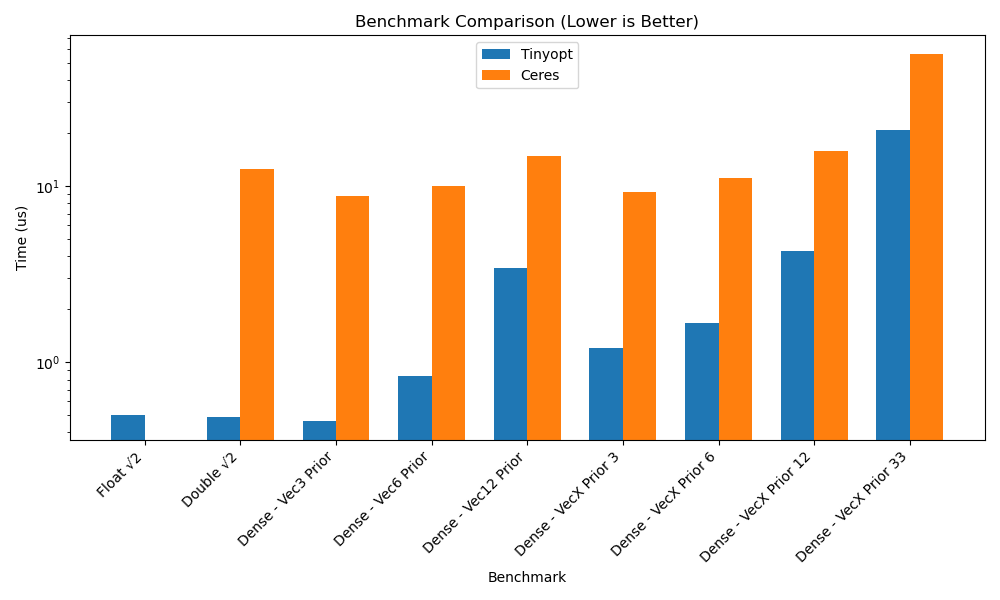
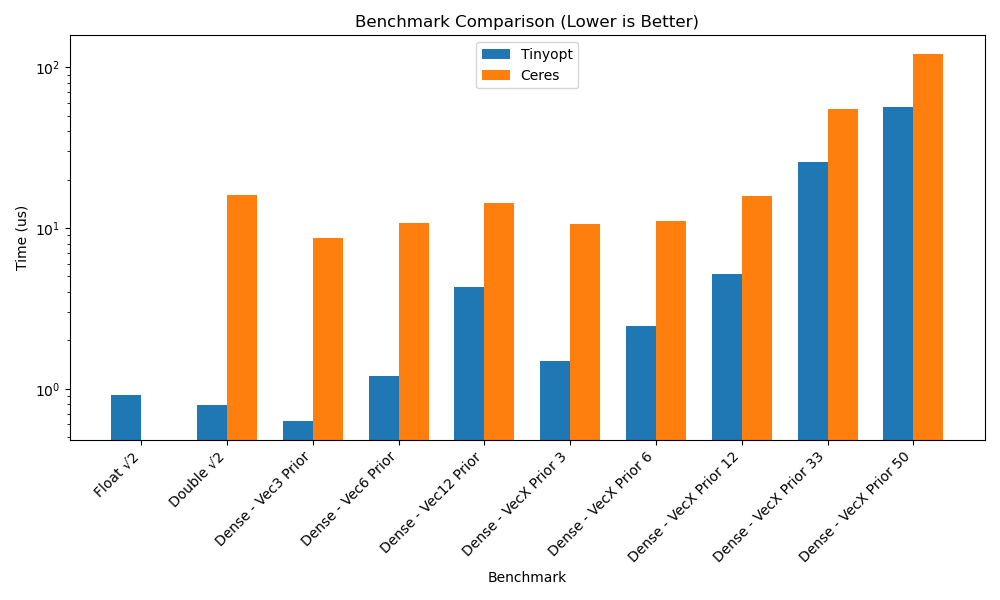
Tune Tinyopt benchmark to mach Ceres
I'm matching the mean convergence rate and number of iterations.
Only VecX seems to do 1 iteration less on average, not sure why.

diff --git a/benchmarks/ceres.cpp b/benchmarks/ceres.cpp
@@ -14,6 +14,7 @@
 
 #include <ceres/types.h>
 #include <cmath>
+#include "tinyopt/log.h"
 
 #if CATCH2_VERSION == 2
 #include <catch2/catch.hpp>
@@ -29,6 +30,7 @@
 
 #include <ceres/ceres.h>
 #include <tinyopt/losses/mahalanobis.h>
+#include "utils.h"
 
 using namespace tinyopt;
 using namespace tinyopt::losses;
@@ -61,15 +63,16 @@ inline auto CreateOptions(bool enable_log = false) {
   options.dense_linear_algebra_library_type = ceres::DenseLinearAlgebraLibraryType::EIGEN;
   // options.sparse_linear_algebra_library_type =
   // ceres::SparseLinearAlgebraLibraryType::EIGEN_SPARSE;
+  options.max_num_consecutive_invalid_steps = 2; // HACK
   return options;
 }
 
 TEST_CASE("Double", "[benchmark][fixed][scalar]") {
   const auto options = CreateOptions();
+  static tinyopt::benchmark::StatCounter<double> counter;
 
   BENCHMARK("√2") {
-    double x = Eigen::Vector<double, 1>::Random()[0];
-    if (log_report) std::cout << "x:" << x << "\n";
+    double x = Eigen::Vector<double, 1>::Random()[0]; // 0.480009157900 fails to converge
     ceres::Problem problem;
     problem.AddParameterBlock(&x, 1);  // Optimize the single variable 'x'
     problem.AddResidualBlock(
@@ -80,6 +83,8 @@ TEST_CASE("Double", "[benchmark][fixed][scalar]") {
     ceres::Solver::Summary summary;  // Summary of the optimization.
     ceres::Solve(options, &problem, &summary);                  // Solve the problem!
     if (log_report) std::cout << summary.FullReport() << "\n";  // Detailed report.
+    counter.AddConv(summary.termination_type == ceres::TerminationType::CONVERGENCE);
+    counter.AddFinalIters(summary.iterations.size());
   };
 }
 
@@ -190,6 +195,7 @@ TEMPLATE_TEST_CASE("Dense", "[benchmark][fixed][dense][double]", Vec3, Vec6, Vec
   const int dims = y.size();
 
   const auto options = CreateOptions();
+  static tinyopt::benchmark::StatCounter<TestType> counter;
 
   BENCHMARK("Prior [AD]") {
     TestType x = TestType::Random();
@@ -217,17 +223,20 @@ TEMPLATE_TEST_CASE("Dense", "[benchmark][fixed][dense][double]", Vec3, Vec6, Vec
     ceres::Solver::Summary summary;      // Summary of the optimization.
     ceres::Solve(options, &problem, &summary);                  // Solve the problem!
     if (log_report) std::cout << summary.FullReport() << "\n";  // Detailed report.
+    counter.AddConv(summary.termination_type == ceres::TerminationType::CONVERGENCE);
+    counter.AddFinalIters(summary.iterations.size());
   };
 }
 
 TEMPLATE_TEST_CASE("Dense", "[benchmark][dync][dense][double]", VecX) {
-  auto dims = GENERATE(3, 6, 12, 33);
+  auto dims = GENERATE(3, 6, 12, 33, 50);
   CAPTURE(dims);
 
   const TestType y = TestType::Random(dims);
   const TestType stdevs = TestType::Random(dims);
 
   const auto options = CreateOptions();
+  static tinyopt::benchmark::StatCounter<TestType> counter;
 
   BENCHMARK("Prior " + std::to_string(dims) + " [AD]") {
     TestType x = TestType::Random(dims);
@@ -260,6 +269,8 @@ TEMPLATE_TEST_CASE("Dense", "[benchmark][dync][dense][double]", VecX) {
     ceres::Solver::Summary summary;      // Summary of the optimization.
     ceres::Solve(options, &problem, &summary);                  // Solve the problem!
     if (log_report) std::cout << summary.FullReport() << "\n";  // Detailed report.
+    counter.AddConv(summary.termination_type == ceres::TerminationType::CONVERGENCE);
+    counter.AddFinalIters(summary.iterations.size());
   };
 }
 

diff --git a/benchmarks/dense.cpp b/benchmarks/dense.cpp
@@ -13,6 +13,7 @@
 // limitations under the License.
 
 #include <cmath>
+#include "tinyopt/log.h"
 
 #if CATCH2_VERSION == 2
 #include <catch2/catch.hpp>
@@ -26,6 +27,7 @@
 
 #include <tinyopt/tinyopt.h>
 #include "options.h"
+#include "utils.h"
 
 using namespace tinyopt;
 using namespace tinyopt::benchmark;
@@ -42,7 +44,7 @@ TEST_CASE("Float", "[benchmark][fixed][scalar]") {
   BENCHMARK("√2") {
     float x = Vec1::Random()[0];
     if (enable_log) TINYOPT_LOG("x:{:.12e}", x);
-    return Optimize(x, loss, options);
+    Optimize(x, loss, options);
   };
 }
 
@@ -50,9 +52,12 @@ TEST_CASE("Double", "[benchmark][fixed][scalar]") {
   auto loss = [](const auto &x) { return x * x - 2.0; };
   Options options = CreateOptions(enable_log);
   options.solver.use_ldlt = false;
+  static StatCounter<double> counter;
   BENCHMARK("√2") {
-    double x = Vec1::Random()[0];
-    return Optimize(x, loss, options);
+    double x = Vec1::Random()[0];  // 0.480009157900 fails to converge
+    const auto &out = Optimize(x, loss, options);
+    counter.AddConv(out.Converged());
+    counter.AddFinalIters(out.num_iters);
   };
 }
 
@@ -72,19 +77,22 @@ TEMPLATE_TEST_CASE("Dense", "[benchmark][fixed][dense][double]", Vec3, Vec6, Vec
   };
 
   const Options options = CreateOptions(enable_log);
+  static StatCounter<TestType> counter;
 
   BENCHMARK("Prior [AD]") {
     TestType x = TestType::Random();
-    return Optimize(x, loss, options);
+    Optimize(x, loss, options);
   };
   BENCHMARK("Prior") {
     TestType x = TestType::Random();
-    return Optimize(x, loss2, options);
+    const auto &out = Optimize(x, loss2, options);
+    counter.AddConv(out.Converged());
+    counter.AddFinalIters(out.num_iters);
   };
 }
 
 TEMPLATE_TEST_CASE("Dense", "[benchmark][dyn][dense][double]", VecX) {
-  auto dims = GENERATE(3, 6, 12, 33);
+  auto dims = GENERATE(3, 6, 12, 33, 50);
   CAPTURE(dims);
 
   const TestType y = TestType::Random(dims);
@@ -102,13 +110,16 @@ TEMPLATE_TEST_CASE("Dense", "[benchmark][dyn][dense][double]", VecX) {
   };
 
   const Options options = CreateOptions(enable_log);
+  static StatCounter<TestType> counter;
 
   BENCHMARK("Prior " + std::to_string(dims) + " [AD]") {
     TestType x = TestType::Random(dims);
-    return Optimize(x, loss, options);
+    Optimize(x, loss, options);
   };
   BENCHMARK("Prior " + std::to_string(dims)) {
     TestType x = TestType::Random(dims);
-    return Optimize(x, loss2, options);
+    const auto &out = Optimize(x, loss2, options);
+    counter.AddConv(out.Converged());
+    counter.AddFinalIters(out.num_iters);
   };
 }

diff --git a/benchmarks/utils.h b/benchmarks/utils.h
@@ -1,0 +1,57 @@
+// Copyright (C) 2025 Julien Michot. All Rights reserved.
+//
+// Licensed under the Apache License, Version 2.0 (the "License");
+// you may not use this file except in compliance with the License.
+// You may obtain a copy of the License at
+//
+//     http://www.apache.org/licenses/LICENSE-2.0
+//
+// Unless required by applicable law or agreed to in writing, software
+// distributed under the License is distributed on an "AS IS" BASIS,
+// WITHOUT WARRANTIES OR CONDITIONS OF ANY KIND, either express or implied.
+// See the License for the specific language governing permissions and
+// limitations under the License.
+
+#pragma once
+
+#include <cstddef>
+#include <iostream>
+#include <sstream>
+
+#include <tinyopt/traits.h>
+
+namespace tinyopt::benchmark {
+
+/// Struct that collects Convergence rate and number of iterations and print at the end.
+template <typename T>
+struct StatCounter {
+  StatCounter() = default;
+  ~StatCounter() {
+    std::ostringstream oss;
+    oss << "'";
+    if constexpr (traits::is_matrix_or_array_v<T>)
+      oss << "Mat" << T::RowsAtCompileTime << "x" << T::ColsAtCompileTime;
+    else
+      oss << typeid(T).name();
+    oss << "' mean [iters: " << sum_total_iters / (float)NumSamples()
+        << ", success:" << 100.0f * ConvRatio() << "%] n:" << NumSamples() << "\n";
+    std::cout << oss.str();
+  }
+
+  void AddConv(bool converged) {
+    if (converged)
+      num_converged++;
+    else
+      num_not_converged++;
+  }
+  void AddFinalIters(int n) { sum_total_iters += n; }
+
+  std::size_t NumSamples() const { return num_converged + num_not_converged; }
+  float ConvRatio() const { return num_converged / (NumSamples() + 1e-6); }
+
+  std::size_t num_converged = 0;
+  std::size_t num_not_converged = 0;
+  std::size_t sum_total_iters = 0;
+};
+
+}  // namespace tinyopt::benchmark

diff --git a/include/tinyopt/stop_reasons.h b/include/tinyopt/stop_reasons.h
@@ -92,17 +92,17 @@ std::string StopReasonDescription(const Output &out, const Options &options = {}
      */
     case StopReason::kMaxIters:
       os << "⛅ Reached maximum number of iterations (success)";
-      if constexpr (!traits::is_nullptr_v<Options>) os << " [#it == " << options.max_iters << "]";
+      if constexpr (!traits::is_nullptr_v<Options>) os << " [#it == " << (int)options.max_iters << "]";
       break;
     case StopReason::kMaxNoDecr:
       os << "⛅ Failed to decrease error too many times (success)";
       if constexpr (!traits::is_nullptr_v<Options>)
-        os << " [=" << options.max_total_failures << "]";
+        os << " [=" << (int)options.max_total_failures << "]";
       break;
     case StopReason::kMaxConsecNoDecr:
       os << "⛅ Failed to decrease error consecutively too many times (success)";
       if constexpr (!traits::is_nullptr_v<Options>)
-        os << " [=" << options.max_consec_failures << "]";
+        os << " [=" << (int)options.max_consec_failures << "]";
       break;
     case StopReason::kTimedOut:
       os << "⌛ Reached maximum allocated time (success)";

diff --git a/include/tinyopt/optimizers/options.h b/include/tinyopt/optimizers/options.h
@@ -53,7 +53,7 @@ struct Options1 {
   float min_step_norm2 = 1e-16;     ///< Minimum step (dx) squared norm
   float min_grad_norm2 = 1e-18f;    ///< Minimum gradient squared norm
   uint8_t max_total_failures = 0;   ///< Overall max failures to decrease error
-  uint8_t max_consec_failures = 3;  ///< Maximum consecutive failures to decrease error
+  uint8_t max_consec_failures = 5;  ///< Maximum consecutive failures to decrease error
   double max_duration_ms = 0;       ///< Maximum optimization duration in milliseconds (ms)
 
   std::function<bool(double, double, double)>

diff --git a/benchmarks/options.h b/benchmarks/options.h
@@ -21,7 +21,8 @@ namespace tinyopt::benchmark {
 inline auto CreateOptions(bool enable_log = false) {
   tinyopt::nlls::lm::Options options;
   options.max_iters = 10;
-  options.max_consec_failures = 5; // same as Ceres's default
+  options.min_error = 0;            // Ceres does not seem to be using this
+  options.max_consec_failures = 0;  // Ceres does not seem to be using this
   options.log.enable = enable_log;
   options.solver.log.enable = enable_log;
   return options;
